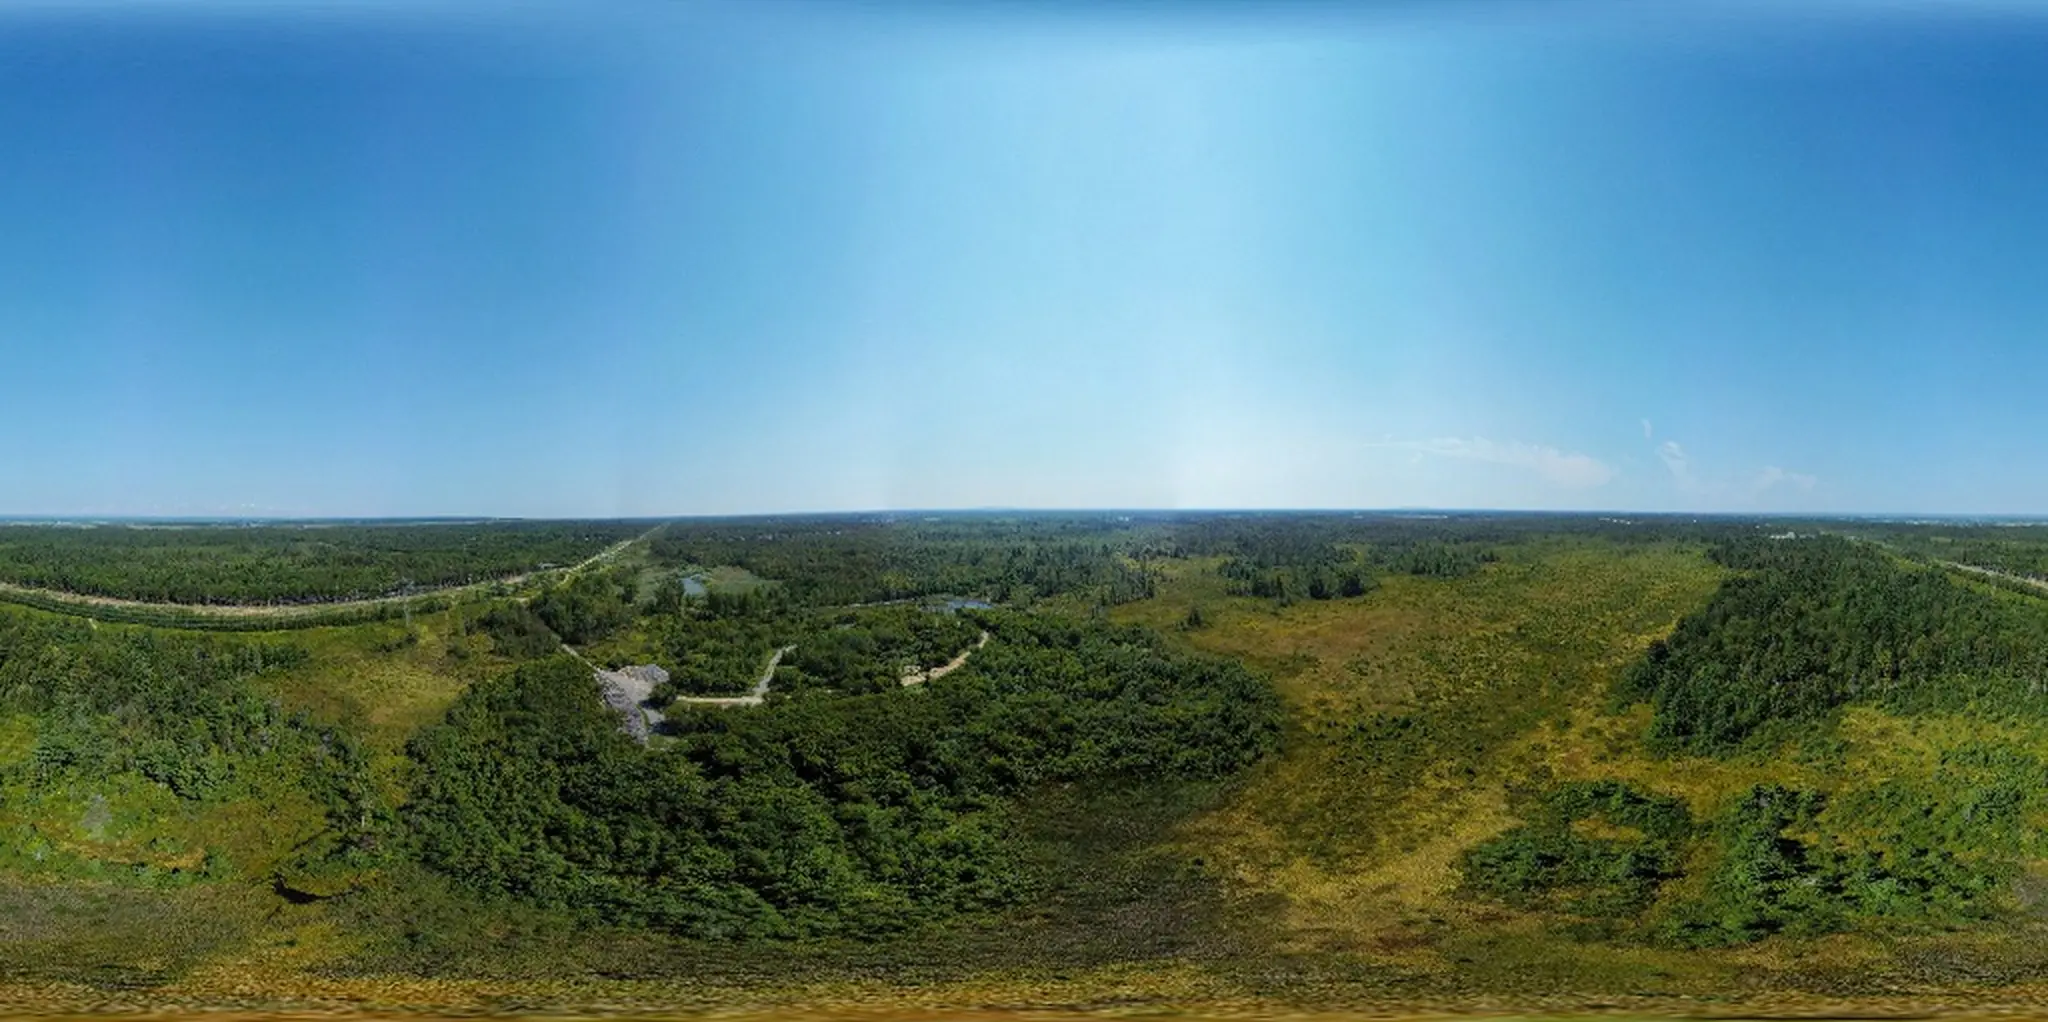
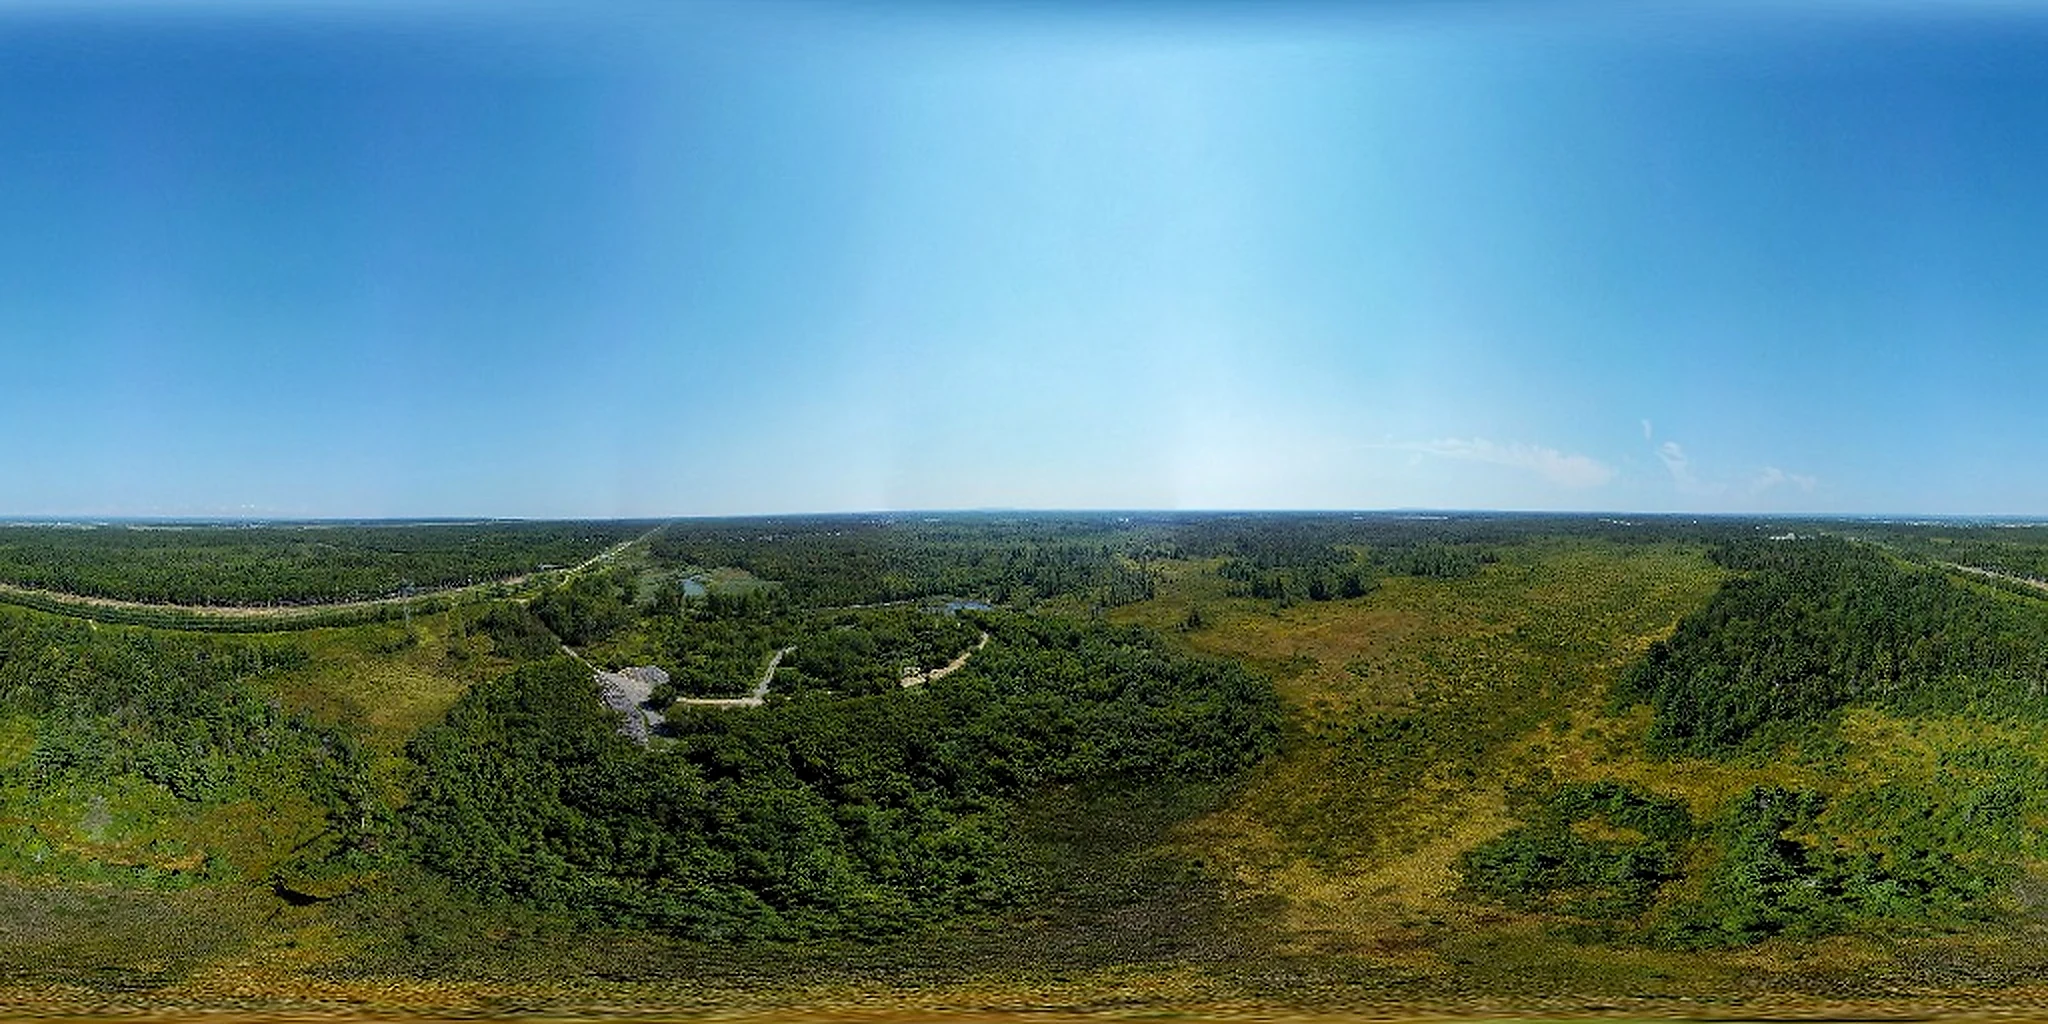
fix(3d): nettete ultra-hd 4k puissances de 2 et shader haute precision

diff --git a/assets/js/hero-depth-3d.js b/assets/js/hero-depth-3d.js
@@ -70,7 +70,11 @@
 
     // Fragment Shader : Projection de sphère 360° équirectangulaire haute fidélité
     const fsSource = `
-      precision mediump float;
+      #ifdef GL_FRAGMENT_PRECISION_HIGH
+        precision highp float;
+      #else
+        precision mediump float;
+      #endif
       varying vec2 vUv;
 
       uniform sampler2D uPanoTex;
@@ -201,23 +205,21 @@
       }
     }
 
-    // Phase 1 : Chargement rapide et léger au premier rendu (2K rapide ~140 Ko)
+    // Phase 1 : Chargement rapide et léger au premier rendu (2K rapide ~400 Ko)
     const imgFast = new Image();
     imgFast.crossOrigin = 'anonymous';
     imgFast.onload = () => {
       applyTextureImage(imgFast);
     };
     imgFast.onerror = () => {
-      // Repli immédiat si fast non disponible
       loadFullTexture();
     };
-    imgFast.src = 'assets/media/tourbiere-photosphere-fast.webp';
+    imgFast.src = 'assets/media/tourbiere-photosphere-fast.webp?v=20261008-v5-4k';
     if (imgFast.complete && imgFast.naturalWidth) {
       imgFast.onload();
     }
 
-    // Phase 2 : Décompression totale Ultra-HD 4K (pleine résolution non-compressée)
-    // Se charge en tâche de fond 6 à 8 secondes après le chargement complet de la page
+    // Phase 2 : Décompression totale Ultra-HD 4K (4096x2048 netteté maximale)
     let fullTextureLoaded = false;
     function loadFullTexture() {
       if (fullTextureLoaded) return;
@@ -229,20 +231,20 @@
         applyTextureImage(imgFull);
       };
       imgFull.onerror = () => {
-        if (imgFull.src.endsWith('.webp')) {
-          imgFull.src = 'assets/media/tourbiere-photosphere-360.jpg';
+        if (imgFull.src.includes('.webp')) {
+          imgFull.src = 'assets/media/tourbiere-photosphere-360.jpg?v=20261008-v5-4k';
         }
       };
-      imgFull.src = 'assets/media/tourbiere-photosphere-360.webp';
+      imgFull.src = 'assets/media/tourbiere-photosphere-360.webp?v=20261008-v5-4k';
     }
 
-    // Déclenchement temporisé après chargement complet de la page (5 à 8 secondes)
-    if (document.readyState === 'complete') {
-      setTimeout(loadFullTexture, 6500);
+    // Déclenchement fluide dès que le thread est libre (1.2s à 2s)
+    if ('requestIdleCallback' in window) {
+      window.requestIdleCallback(() => {
+        setTimeout(loadFullTexture, 1200);
+      }, { timeout: 3000 });
     } else {
-      window.addEventListener('load', () => {
-        setTimeout(loadFullTexture, 6500);
-      });
+      setTimeout(loadFullTexture, 1500);
     }
 
     // Paramètres optiques et navigation 360° interactive

diff --git a/sphere-360.html b/sphere-360.html
@@ -66,7 +66,11 @@
   `;
 
   const FS = `
-    precision mediump float;
+    #ifdef GL_FRAGMENT_PRECISION_HIGH
+      precision highp float;
+    #else
+      precision mediump float;
+    #endif
     varying vec2 vUv;
     uniform sampler2D uTex;
     uniform float uYaw;
@@ -172,9 +176,9 @@
     requestAnimationFrame(render);
   };
   img.onerror = () => {
-    img.src = "assets/media/tourbiere-photosphere-360.jpg";
+    img.src = "assets/media/tourbiere-photosphere-360.jpg?v=20261008-v5-4k";
   };
-  img.src = "assets/media/tourbiere-photosphere-360.webp";
+  img.src = "assets/media/tourbiere-photosphere-360.webp?v=20261008-v5-4k";
 
   // Variables de caméra
   const DEG2RAD = Math.PI / 180;

diff --git a/edition-speciale-reconciliation.html b/edition-speciale-reconciliation.html
@@ -610,7 +610,7 @@
 <script src="assets/js/theme-core.js?v=20260930-v70" defer></script>
 <script src="https://cdn.jsdelivr.net/npm/add-to-calendar-button@2.15.0" integrity="sha384-80vV/KEhBwD5tKGZUNJIP8v35xgzoh4G8XSqB97o794UbhhHRhOfKhrNGPFrhRwY" crossorigin="anonymous" async defer></script>
 <script src="assets/vendor/curtains/curtains.umd.min.js?v=20260920-v7" defer></script>
-<script src="assets/js/hero-depth-3d.js?v=20261008-v4-progressive-hd" defer></script>
+<script src="assets/js/hero-depth-3d.js?v=20261008-v5-4k" defer></script>
 <script src="assets/js/page-home.js?v=20260923-v2" defer></script>
 <script src="assets/js/chat-ai.js?v=20260920-v1" defer></script>
 </head>

diff --git a/index.html b/index.html
@@ -2990,7 +2990,7 @@
 </script>
 <!-- Scripts complémentaires différés hors du chemin critique -->
 <script src="assets/vendor/curtains/curtains.umd.min.js?v=20260920-v7" defer></script>
-<script src="assets/js/hero-depth-3d.js?v=20261008-v4-progressive-hd" defer></script>
+<script src="assets/js/hero-depth-3d.js?v=20261008-v5-4k" defer></script>
 <script src="assets/js/chat-ai.js?v=20260920-v1" defer></script>
 <script src="https://cdn.jsdelivr.net/npm/add-to-calendar-button@2.15.0" integrity="sha384-80vV/KEhBwD5tKGZUNJIP8v35xgzoh4G8XSqB97o794UbhhHRhOfKhrNGPFrhRwY" crossorigin="anonymous" async defer></script>
 

diff --git a/404.html b/404.html
@@ -42,7 +42,7 @@
 <link rel="stylesheet" href="style.css?v=20261001-v75">
 <script src="assets/js/theme-core.js?v=20260930-v70" defer></script>
 <script src="assets/vendor/curtains/curtains.umd.min.js?v=20260920-v7" defer></script>
-<script src="assets/js/hero-depth-3d.js?v=20261008-v4-progressive-hd" defer></script>
+<script src="assets/js/hero-depth-3d.js?v=20261008-v5-4k" defer></script>
 </head>
 <body class="dark-theme">
 <a href="#main-content" class="skip-link">Aller au contenu principal</a>

diff --git a/sw.js b/sw.js
@@ -1,4 +1,4 @@
-const CACHE_NAME = 'wg-pwa-v98';
+const CACHE_NAME = 'wg-pwa-v99';
 const MAX_CACHE_ENTRIES = 256;
 
 const ASSETS_TO_CACHE = [
